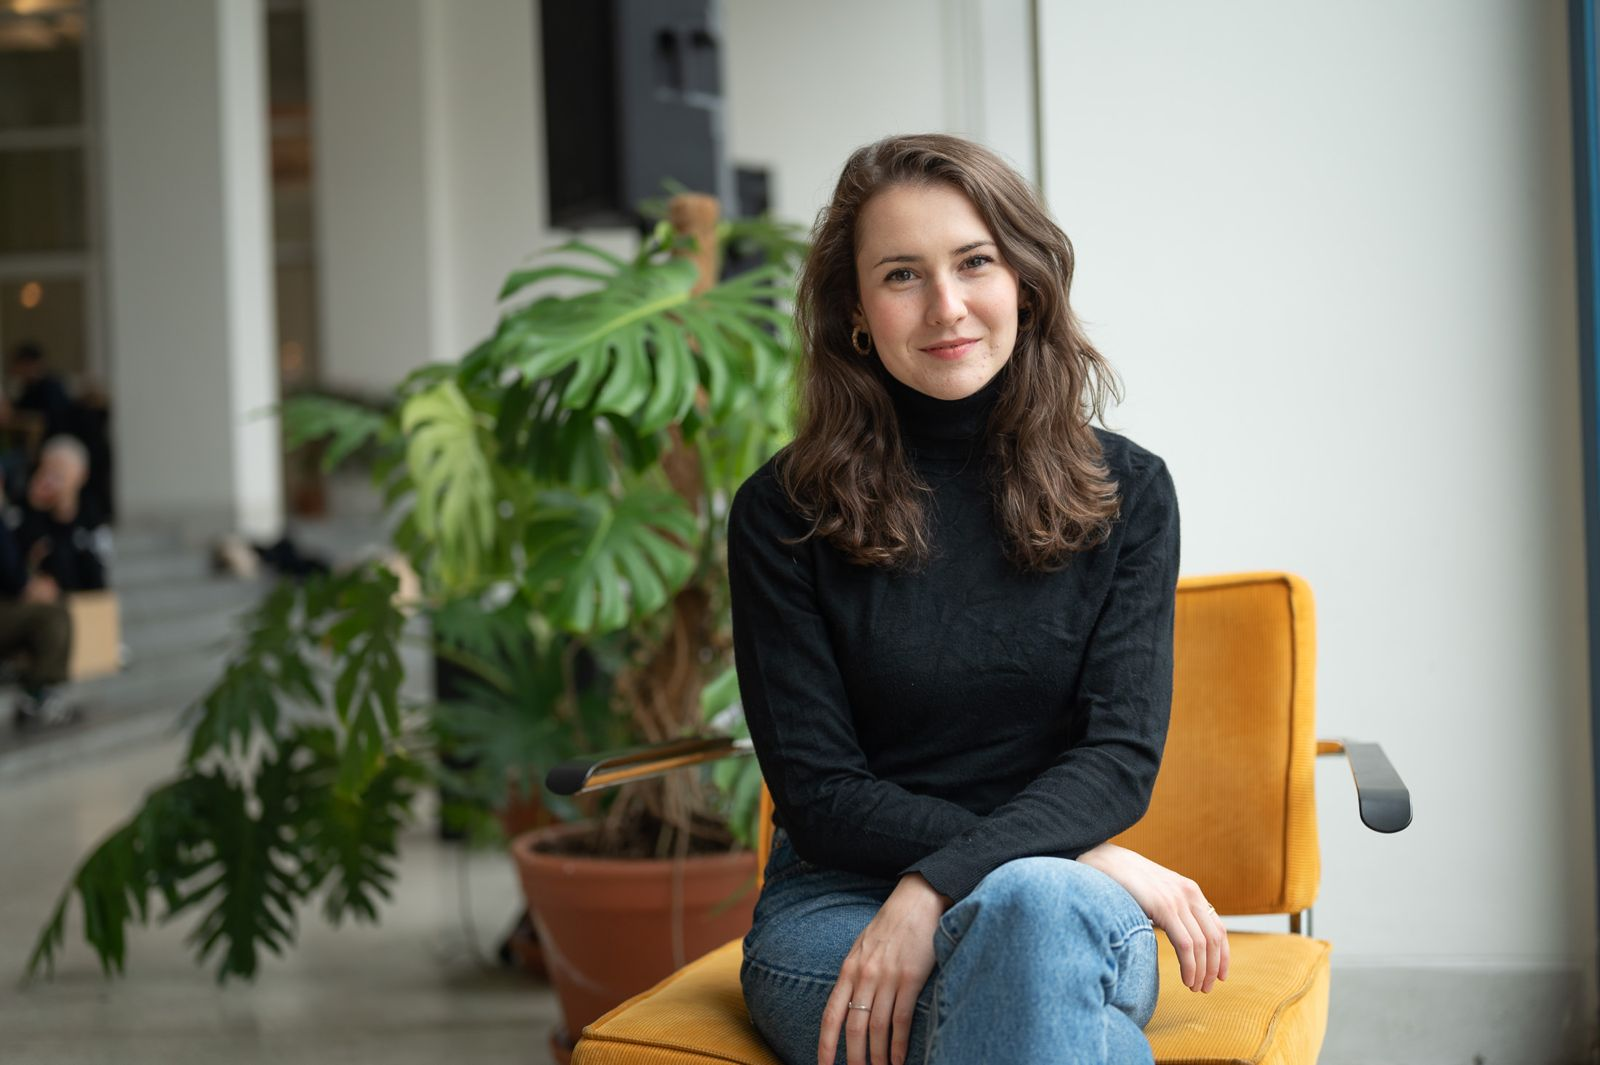
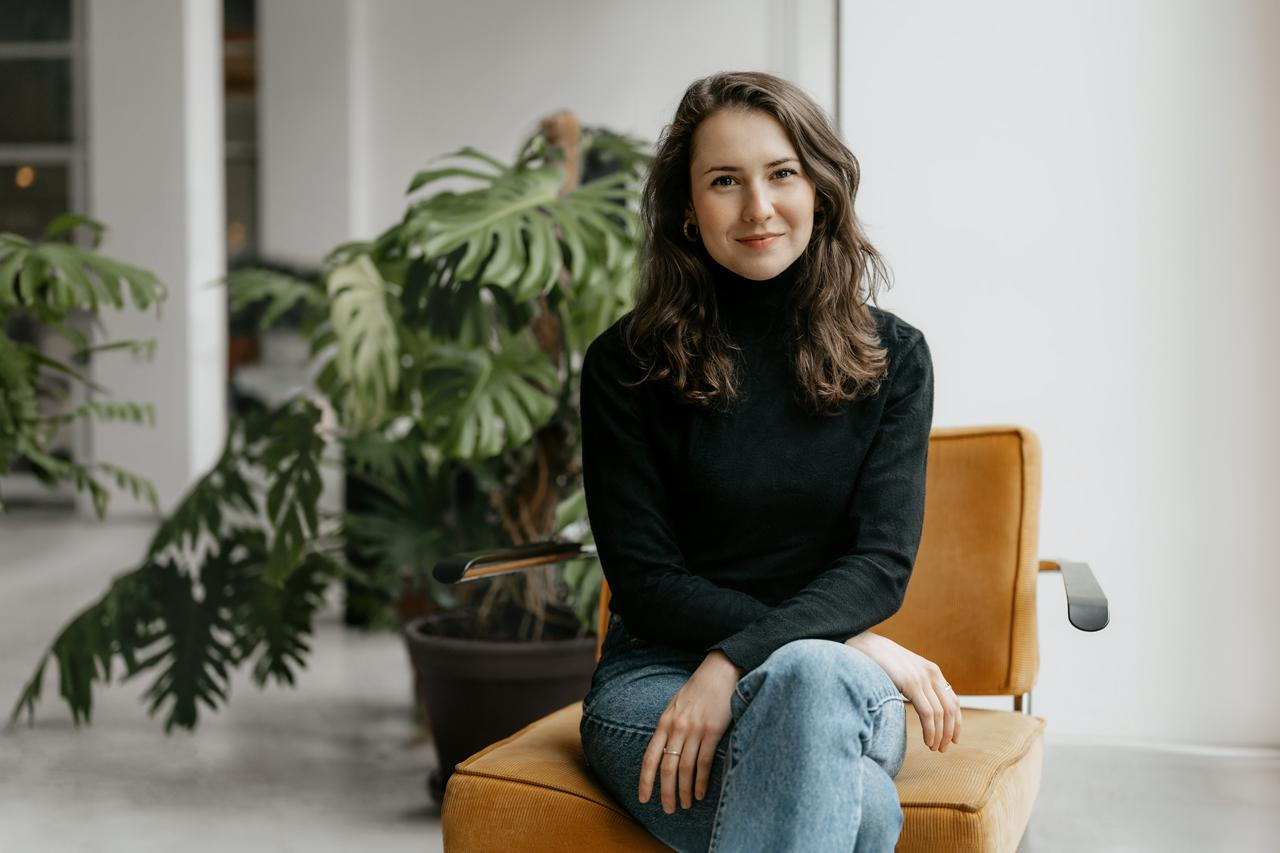
feat: new cover photo

diff --git a/src/components/HeaderPhoto.vue b/src/components/HeaderPhoto.vue
@@ -6,7 +6,7 @@
         <div class="col mb-5">
           <div>
             <h1>{{ t(`name-with-title`) }}</h1>
-            <p class="lead">{{ t(`job-description`) }}</p>
+            <p>{{ t(`job-description`) }}</p>
           </div>
         </div>
       </div>
@@ -23,9 +23,14 @@ const { t } = useI18n()
 <style lang="scss" scoped>
 h1 {
   color: $white;
+  text-shadow: 0px 0px 16px rgba(0, 0, 0, 0.35);
 }
 p {
   color: $white;
+  text-shadow: 0px 0px 16px rgba(0, 0, 0, 0.35);
+  font-weight: 400;
+  letter-spacing: 0.05em;
+  font-size: 1.5rem;
 }
 section {
   background-image: url('@/assets/cover-photo.jpeg');
